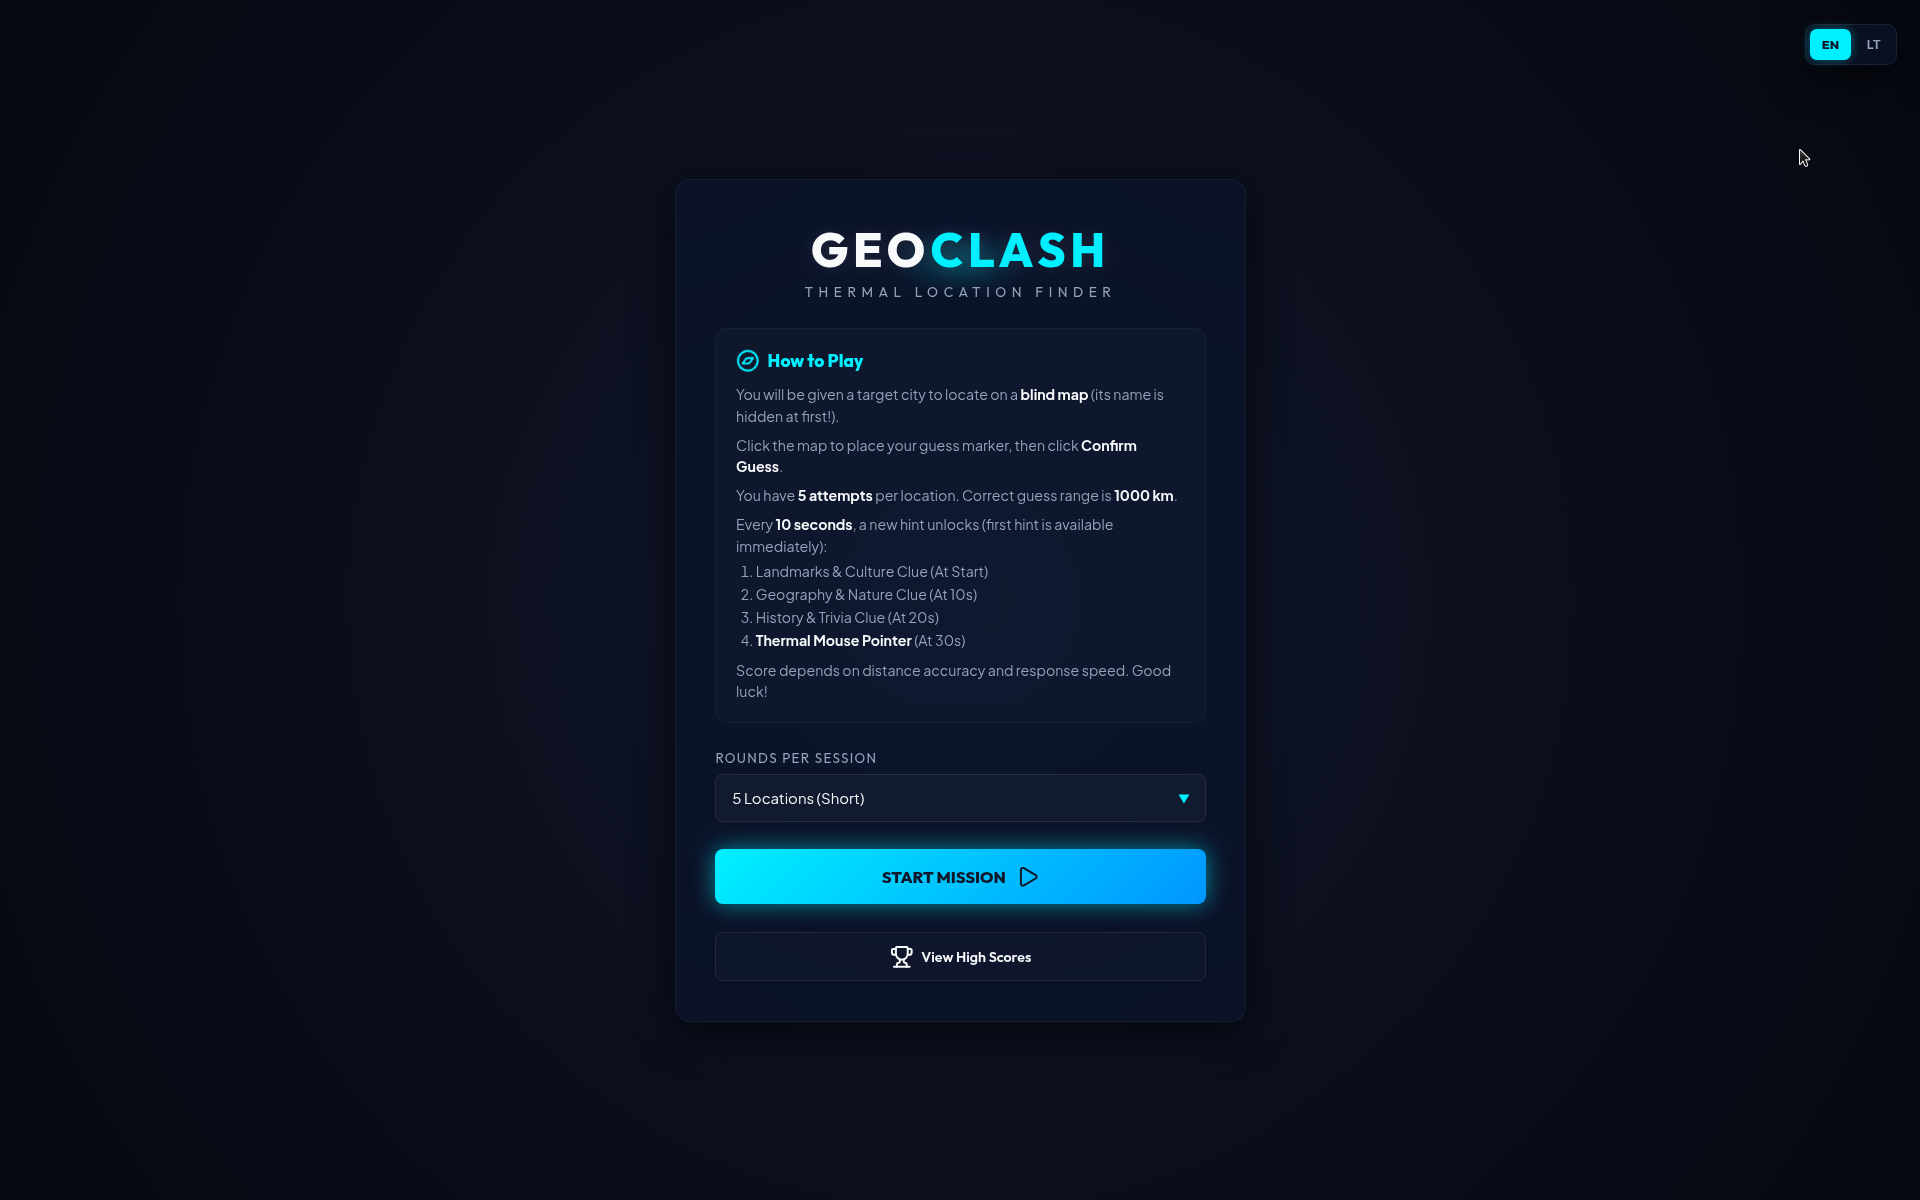
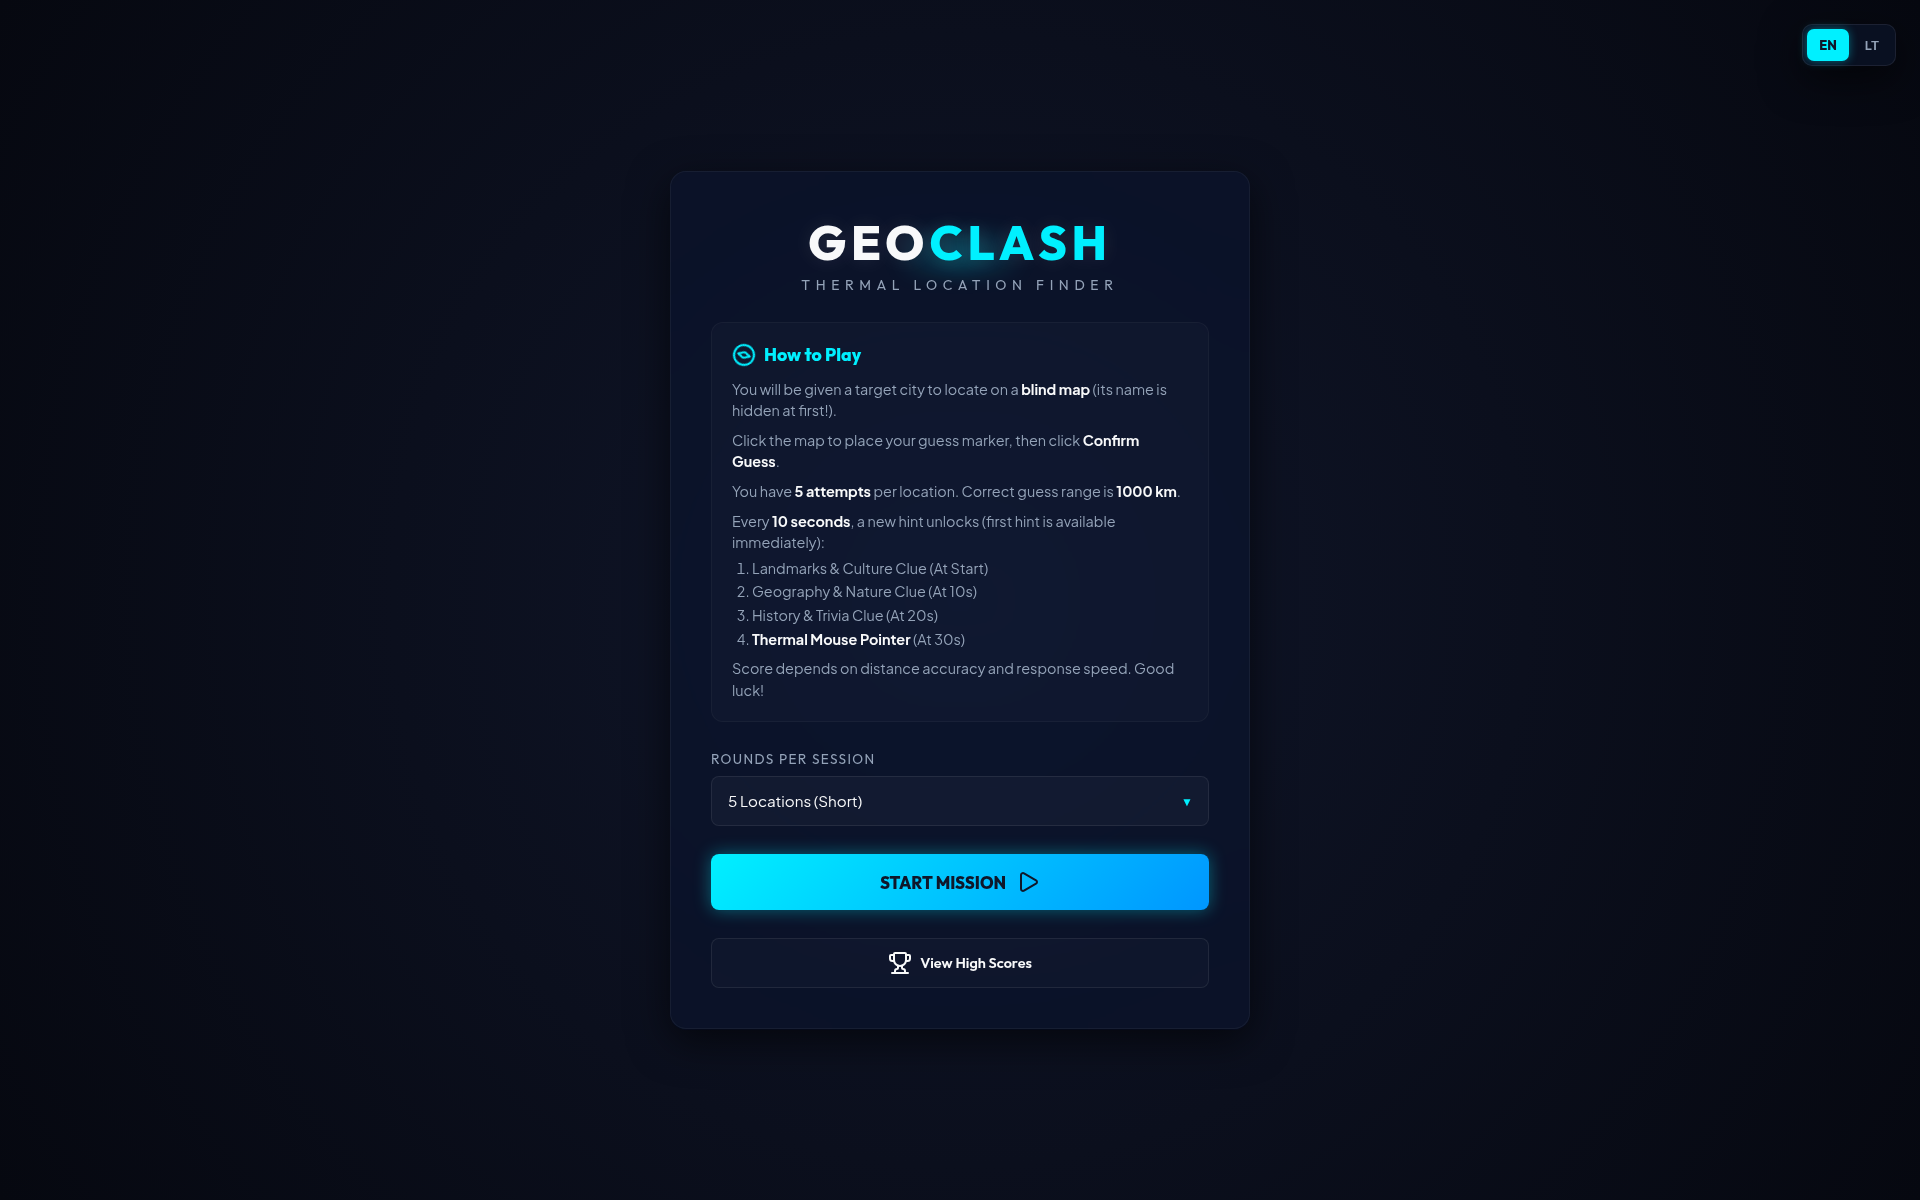
docs: replace README shots with live gameplay on a readable map
The previous gameplay images were crushed so dark they looked like a
missing-tile / API-key failure. Brighten the NASA GIBS land/water
basemap so continents stay visible, and recapture the start menu,
unlabeled map, and guess-result screenshots from a real session.

diff --git a/style.css b/style.css
@@ -798,9 +798,9 @@ input, select, button {
   background-color: var(--bg-obsidian);
 }
 
-/* Darken NASA land/water tiles to match the original CARTO dark blind-map look */
+/* Dim NASA GIBS land/water tiles to the dark UI without hiding continents. */
 #map .leaflet-tile-pane {
-  filter: brightness(0.38) contrast(1.45);
+  filter: brightness(0.72) contrast(1.22) saturate(0.55);
 }
 
 /* Custom Marker CSS Styling */
